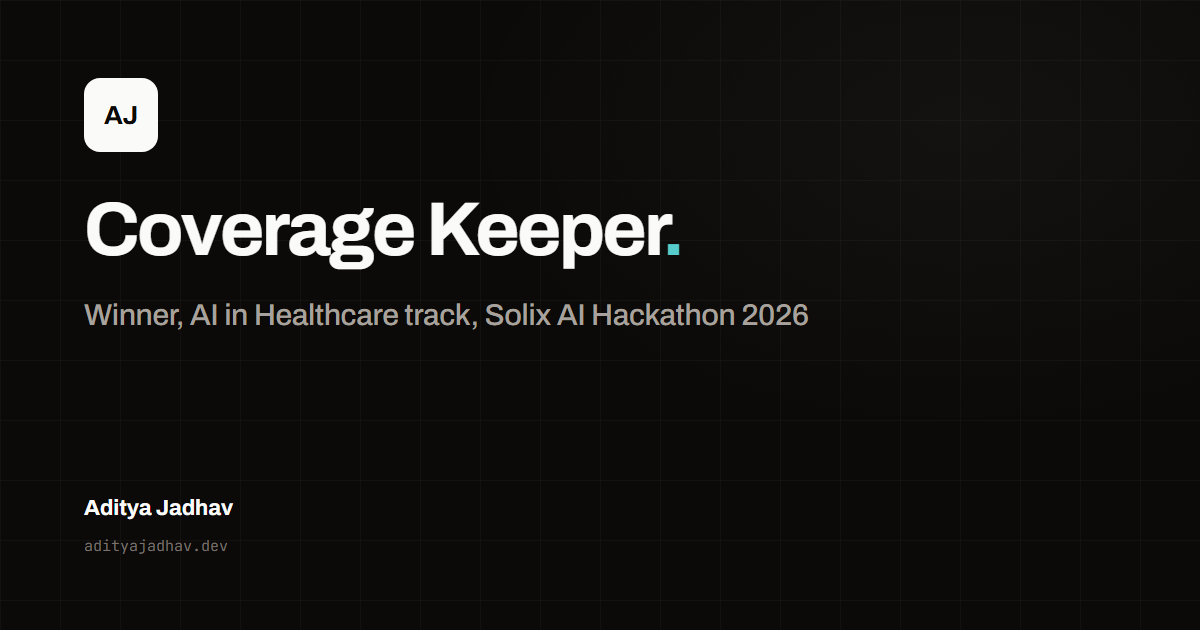
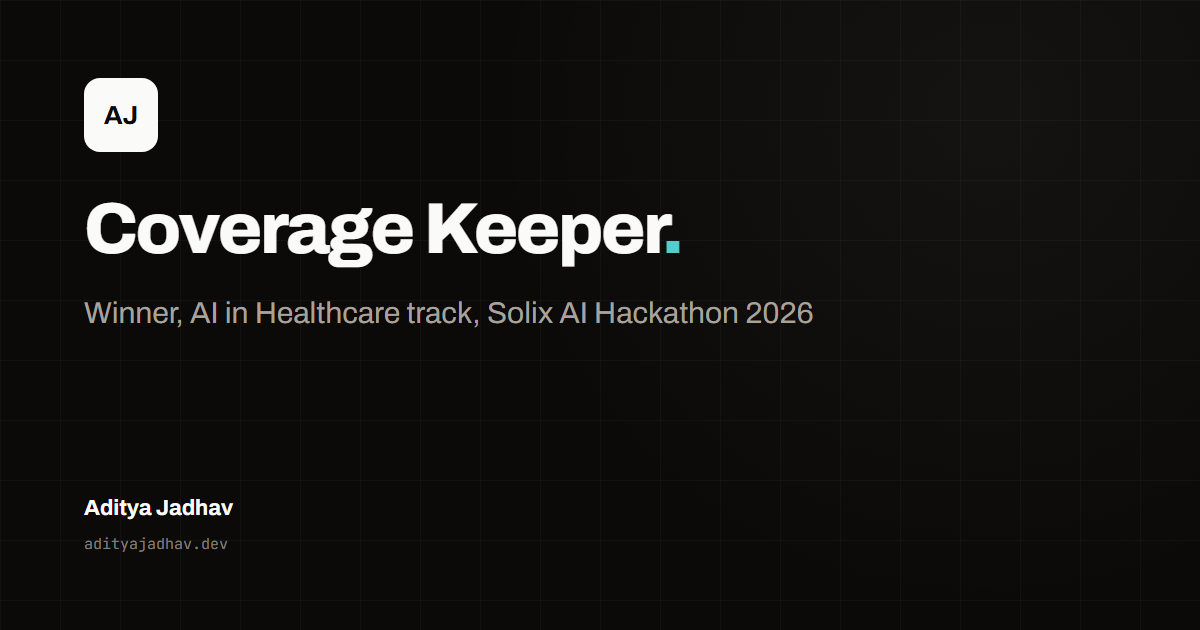
Add the WatchTower project page and a share image script
scripts/og.mjs renders public/og/<slug>.png from the project's title and
award (or the study's result line) with Playwright, colours from
tokens.mjs, and fails when the text would overflow. coverage-keeper.png
is regenerated with it; watchtower.png is new.

The next-project link now has a second page to point at; e2e covers it
in both directions.

Changed region(s): [[0.0617, 0.3317, 0.555, 0.4524], [0.0617, 0.4825, 0.6783, 0.5429], [0.0617, 0.8444, 0.185, 0.8746]]

diff --git a/src/content/case-studies/watchtower.ts b/src/content/case-studies/watchtower.ts
@@ -1,0 +1,120 @@
+// Every claim here comes from the Watchtower-Course-Project README as of
+// 2026-11-11, its merged pull requests and commit authors, or the WatchTower
+// card in projects.ts. Limits are the constants in src/backend/server.js.
+// GitHub logins map to the README's first names by role and commit names.
+import type { CaseStudy } from '../case-study'
+
+const study: CaseStudy = {
+  slug: 'watchtower',
+  title: 'WatchTower: Web Observability SDK and Dashboard',
+  description:
+    'WatchTower is a web observability tool from UC San Diego CSE 110: a browser SDK, a Node.js ingest API and a Clerk-secured dashboard. I led the team of 11.',
+  facts: {
+    result: 'Live Render backend and an SDK test app on GitHub Pages',
+    role: 'Team and technical lead; CI, auth, data scoping',
+    team: '11 people',
+  },
+  dateCreated: '2026-04',
+  keywords: [
+    'WatchTower',
+    'web observability',
+    'JavaScript error tracking',
+    'browser SDK',
+    'Navigation Timing API',
+    'Beacon API',
+    'p95 latency',
+    'Node.js',
+    'Supabase',
+    'Postgres',
+    'Clerk JWT verification',
+    'UC San Diego CSE 110',
+  ],
+  ogImage: {
+    src: '/og/watchtower.png',
+    alt: 'Dark card with an AJ monogram, the title "WatchTower." and the line "Live Render backend and an SDK test app on GitHub Pages". Below it: Aditya Jadhav and adityajadhav.dev.',
+  },
+  sections: [
+    {
+      heading: 'The problem',
+      body: [
+        {
+          p: 'A team running a web app in production needs to know which errors users hit, how fast pages load, which routes are slow and what users do. The usual answer is a vendor agent. WatchTower is a lightweight observability platform that gives that view from a small script you add to a page and a backend you run yourself.',
+        },
+        {
+          p: 'It was the Spring 2026 course project of Team 09 in CSE 110 at UC San Diego, and we built it to deploy and run as a real product.',
+        },
+      ],
+    },
+    {
+      heading: 'What I built',
+      body: [
+        {
+          p: "There were 11 of us. The README lists me as Technical Lead for CI/CD and architecture, and I also ran the team as team lead and Scrum Master. Most of WatchTower's code is my teammates'. These are the parts the merged pull requests show I wrote:",
+        },
+        {
+          ul: [
+            'The GitHub Actions CI pipeline, from the first HTML and CSS validators to JavaScript linting, Jest unit tests, Playwright end-to-end tests and JSDoc.',
+            "The first end-to-end backend run: the prototype SDK, server and SQLite event store working together, with unit and Playwright tests. It built on Jason's SQLite integration.",
+            "The Clerk sign-in across the login, signup and landing pages, and the script that writes the browser's Clerk config from CLERK_PUBLISHABLE_KEY. Waleed researched Clerk and first wired it into prototype 3.",
+            "Per-user data: the server verifies each Clerk session JWT against Clerk's public JWKS and scopes every dashboard read to that user, so a new account starts empty and keeps its own data.",
+            'The owner mapping that lets the external test app, which has no sign-in, send events that show up on a demo dashboard.',
+            'The repository restructure into backend, frontend, SDK and shared folders, with the first two prototypes moved to an archive.',
+            'In September and October 2026, after the course, a security review of the deployed app and the fixes it led to.',
+          ],
+        },
+        {
+          p: "My teammates built the rest. Hieu merged the two dashboard candidates into prototype 3 and built its developer and manager views, the landing page and the static dashboard demo. James, Alex, Hemendra and Fahad built the candidate dashboards, login pages, landing page work and privacy dialogs. Woosik added Beacon API delivery and fuller Navigation Timing to the SDK, the first unit tests, and a stored XSS fix. Daniel moved those metrics and Supabase storage into prototype 3, sent alert emails to each signed-in user and wrote most of the architecture decision records. Jason built the Postgres storage on Supabase and the analytics history. Waleed wrote the first event schema and API contract, then built the Gmail alerts for error spikes, the timezone setting and the signed-in profile name. Fahad led product and process, and Josh wrote the requirements, user stories and retrospectives.",
+        },
+      ],
+    },
+    {
+      heading: 'How it works',
+      body: [
+        {
+          p: 'A monitored app loads the WatchTower browser SDK, a single file with no dependencies. It captures unhandled JavaScript errors, clicks, custom events, route changes and Navigation Timing data, and sends them to POST /api/events, or through the Beacon API when the page is closing.',
+        },
+        {
+          p: 'The backend is a plain Node.js HTTP server with no framework, hosted on Render. It caps a request body at 1 MiB, a batch at 100 events and one event at 16 KiB, and rejects JSON nested deeper than 64 levels. Events go to Postgres on Supabase, or to memory when no database is configured, which is how tests and local runs work.',
+        },
+        {
+          p: 'The dashboard signs people in with Clerk, which holds the accounts, so WatchTower keeps no login secrets. For every dashboard request the server reads the user id from a verified Clerk JWT and returns only that user\'s events: an error feed grouped by signature and deploy version, p95 latency per route, active users and session paths. A developer query box takes a small SQL-like query, returns at most 250 rows and is limited to 60 queries per user per minute. In production the server refuses to start unless JWT verification is on.',
+        },
+        {
+          p: 'A separate test app on GitHub Pages embeds the SDK and sends real cross-origin telemetry to the Render backend, allowed by an explicit CORS list.',
+        },
+      ],
+    },
+    {
+      heading: 'What it gets wrong',
+      body: [
+        {
+          ul: [
+            'Ingestion is public. Anyone can post events, and every event from the external test app goes to one demo owner. The fix is a key per monitored app, and it is not built.',
+            "My own June code had holes I found in September. The JWT check kept a switch that trusted a user id header, and the ingest path kept the user id from the event itself, so a stranger could put events on someone else's dashboard. An event stream route also sent every event to every connected client. I removed all three and added regression tests.",
+            'The server uses the Supabase service-role key, which bypasses row-level security. User scoping lives in application code only.',
+            'Email alerts are gone. A Nodemailer advisory was plausibly reachable through a public recipient route, so I removed the Gmail mailer and that route. The README line saying alerting is email-only is out of date.',
+            'There is no full Content Security Policy yet, because Clerk and the dashboard load scripts at run time. The dashboard also polls the API rather than receiving a live stream.',
+          ],
+        },
+      ],
+    },
+    {
+      heading: 'Stack',
+      body: [
+        {
+          ul: [
+            'JavaScript, HTML and CSS with no front-end framework',
+            'Node.js HTTP server on Render',
+            'Supabase (Postgres) through supabase-js',
+            'Clerk for sign-in, with jose verifying session JWTs',
+            'Jest and Playwright',
+            'GitHub Actions and Dependabot',
+            'GitHub Pages for the external test app',
+          ],
+        },
+      ],
+    },
+  ],
+}
+
+export default study

diff --git a/e2e/project-page.spec.ts b/e2e/project-page.spec.ts
@@ -68,6 +68,14 @@ test('the homepage card links to the page', async ({ page }) => {
   expect(await page.locator(`#project-coverage-keeper a[href="${PAGE}"]`).count()).toBeGreaterThanOrEqual(1)
 })
 
+// The next project is the next published page in homepage order, wrapping.
+for (const [from, to] of [['coverage-keeper', 'watchtower'], ['watchtower', 'coverage-keeper']]) {
+  test(`${from} links to ${to} as the next project`, async ({ page }) => {
+    await page.goto(`/projects/${from}/`)
+    await expect(page.locator('main a', { hasText: 'Next project' })).toHaveAttribute('href', `/projects/${to}/`)
+  })
+}
+
 test('no console or CSP errors, and hydration is clean', async ({ page }) => {
   const errors = collectErrors(page)
   await page.addInitScript(() => {

diff --git a/src/lib/pages.test.ts b/src/lib/pages.test.ts
@@ -18,4 +18,4 @@ test('pageFor finds the project and throws for an unknown slug', () => {
   expect(pageFor(fixtureStudy).project.id).toBe('watchtower')
   expect(() => pageFor({ ...fixtureStudy, slug: 'nope' })).toThrow('pages: no project with slug "nope"')
 })
-test('only Coverage Keeper is published so far', () => expect(publishedSlugs).toEqual(['coverage-keeper']))
+test('Coverage Keeper and WatchTower are published', () => expect(publishedSlugs).toEqual(['coverage-keeper', 'watchtower']))
